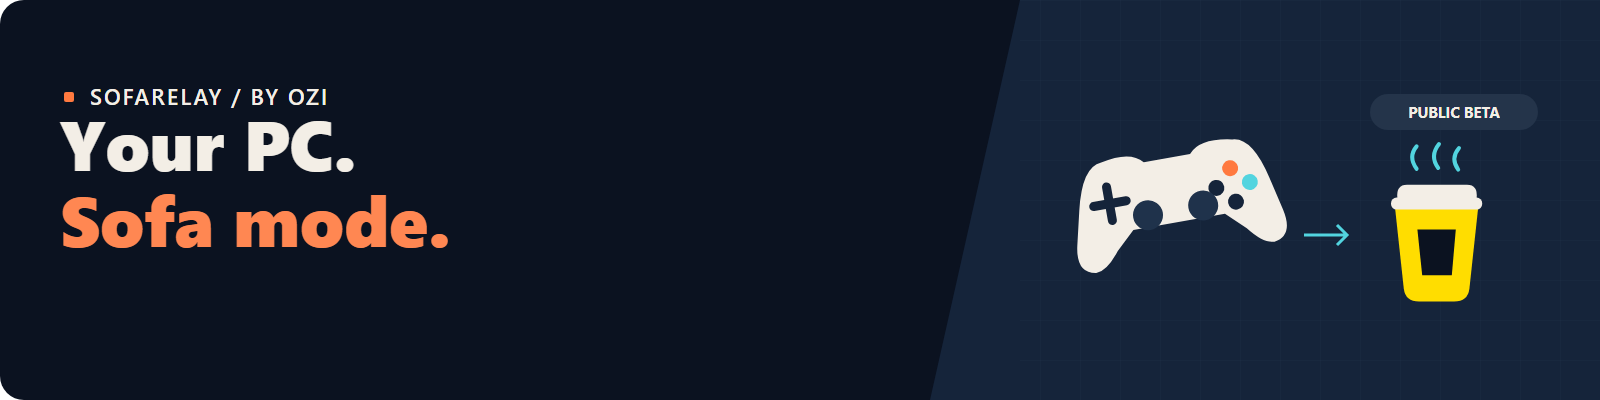
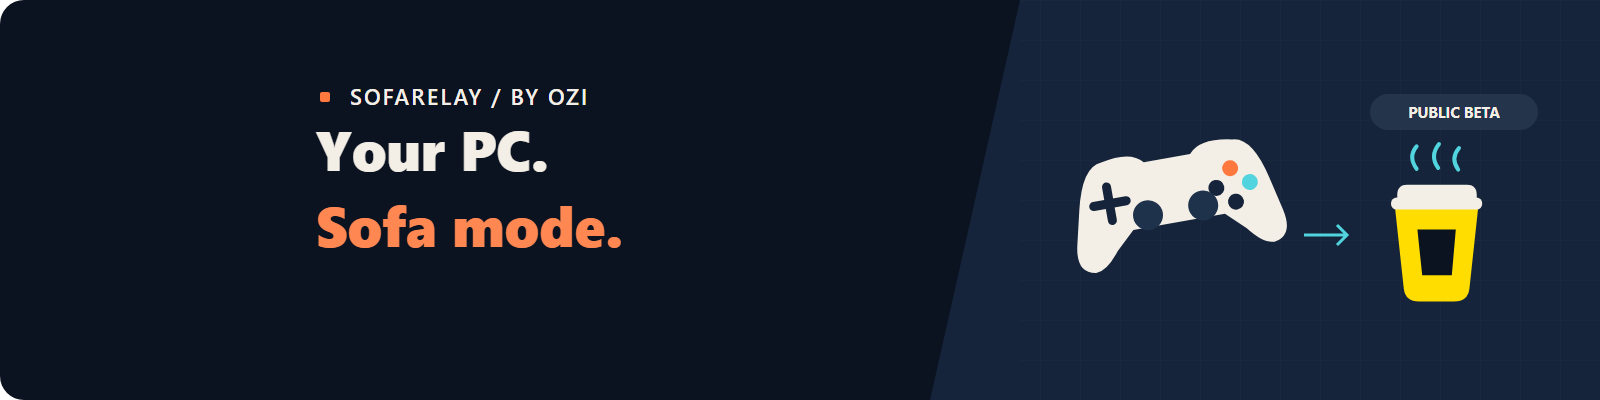
Fit coffee cover to narrow screens and keep support links synchronized

Changed region(s): [[0.0312, 0.48, 0.4062, 0.63], [0.0312, 0.3, 0.3438, 0.45], [0.0312, 0.21, 0.375, 0.27]]

diff --git a/docs/SUPPORT.md b/docs/SUPPORT.md
@@ -3,12 +3,12 @@
 SofaRelay is free and open source. Stars, reproducible bug reports, translations, documentation improvements and code contributions are useful forms of support. Please also support the [upstream projects](CREDITS.md) that provide the library, streaming and emulation foundations.
 
 <!-- SUPPORT-LINK:START -->
+<a href="https://buymeacoffee.com/oziooztrk"><img src="media/support/support-en.svg" alt="Buy Ozi a coffee — help with fixes, testing and guides" width="100%"></a>
+
 You can [buy the maintainer a coffee](https://buymeacoffee.com/oziooztrk). Donations are optional, provide no special entitlement and do not change the project's free/open-source status. Please support the upstream maintainers too.
 <!-- SUPPORT-LINK:END -->
 
 ## A coffee for the next game night
-
-<a href="https://buymeacoffee.com/oziooztrk"><img src="media/support/support-en.svg" alt="Buy Ozi a coffee — help with fixes, testing and guides" width="100%"></a>
 
 SofaRelay is maintained by [Ozi](https://github.com/ozi-dev). A coffee supports time spent on fixes, compatibility testing and documentation. It does not purchase features, priority support or a compatibility guarantee. The project is a [public beta](RELEASE-STATUS.md), and its current limits remain documented.
 
@@ -16,10 +16,11 @@ Thank you for supporting this project and the people behind [Playnite, Sunshine,
 
 ## Maintainer: keep the links in sync
 
-The confirmed public profile is [buymeacoffee.com/oziooztrk](https://buymeacoffee.com/oziooztrk). If the handle changes, update GitHub's Sponsor button, the top buttons and all four localized README support banners together:
+If the handle changes, use the account owner's new public HTTPS profile URL to update GitHub's Sponsor button, the top buttons, all four localized README banners and this support page together:
 
 ```powershell
-powershell -NoProfile -ExecutionPolicy Bypass -File .\scripts\maintainer\Set-Funding.ps1 -PublicUrl "https://buymeacoffee.com/oziooztrk"
+$publicProfileUrl = Read-Host 'Public Buy Me a Coffee profile URL'
+powershell -NoProfile -ExecutionPolicy Bypass -File .\scripts\maintainer\Set-Funding.ps1 -PublicUrl $publicProfileUrl
 ```
 
 Editable [cover artwork](media/support/coffee-cover.svg), a ready-to-upload [1600 × 400 PNG cover](media/support/coffee-cover.png) and a [project introduction image](media/support/coffee-intro.png) are available. The introduction uses the maintainer's real connected game library. Keep private account, payout and identity details outside this repository.
